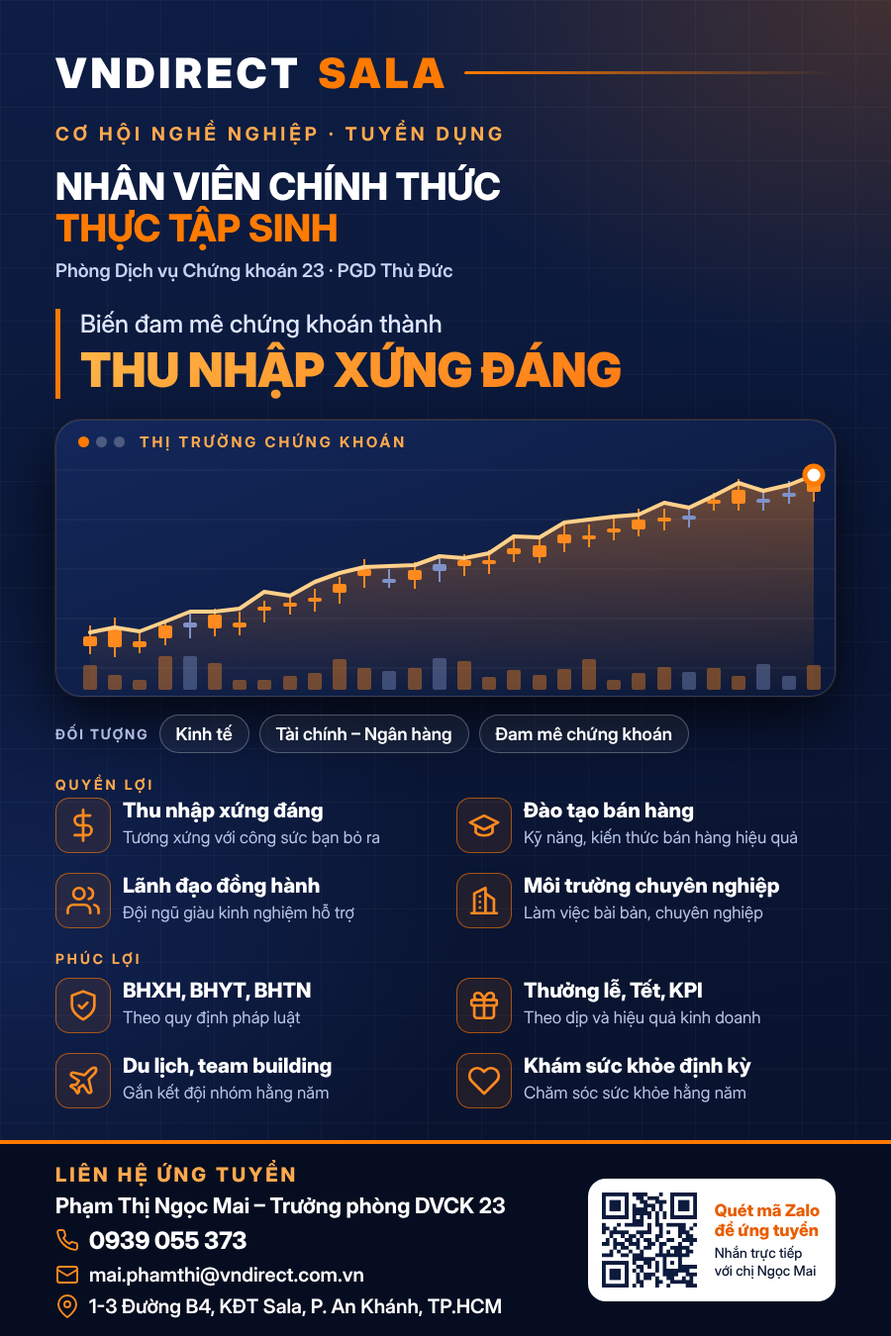
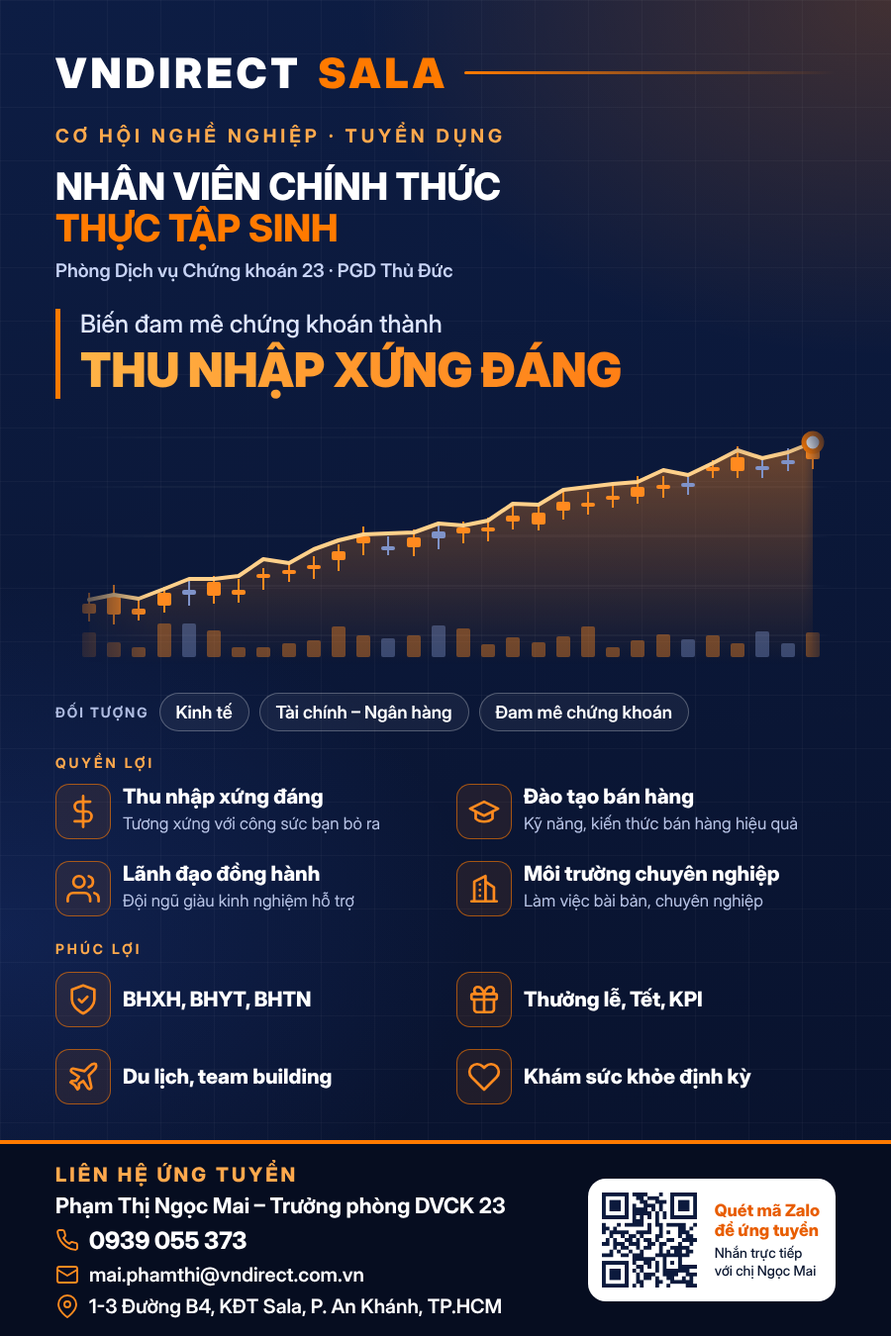
Airier layout: unboxed chart band, fewer text blocks, simplified welfare items
Claude-Session: https://claude.ai/code/session_018tv2baJyNPqKrqKUyJ6wTq

diff --git a/tuyen-dung-vndirect/banner-doc.html b/tuyen-dung-vndirect/banner-doc.html
@@ -7,27 +7,28 @@ background:radial-gradient(900px 600px at 100% 0%,#ff7a0038 0,#0000 60%),radial-
 .a{position:absolute;left:64px;right:64px}
 .logo{top:48px;font-size:46px;font-weight:900;letter-spacing:4px;display:flex;align-items:center;gap:16px}
 .logo span{color:var(--o)} .logo i{flex:1;height:3px;background:linear-gradient(90deg,var(--o),#0000);border-radius:2px}
-.ov{top:124px;font-size:19px;font-weight:700;letter-spacing:4px;color:var(--o2)}
+.ov{top:126px;font-size:19px;font-weight:700;letter-spacing:4px;color:var(--o2)}
 h1{top:168px;font-size:38px;line-height:1.1;font-weight:800;text-transform:uppercase}
 h1 span{color:var(--o)}
 .dept{top:262px;font-size:19px;font-weight:600;color:#c7d3f5}
 .q{top:312px;padding-left:20px;border-left:5px solid var(--o)}
 .q p{font-size:25px;font-weight:500;color:#dfe7ff}
 .q b{display:block;margin-top:2px;font-size:48px;font-weight:900;text-transform:uppercase;background:linear-gradient(90deg,#ffb347,#ff6a00);-webkit-background-clip:text;color:transparent;white-space:nowrap}
-.dash{top:424px;height:280px;border-radius:26px;background:linear-gradient(160deg,#13275a,#0b1838);border:1px solid #ffffff22;box-shadow:0 24px 60px #000b,0 0 0 1px #ff7a0033;overflow:hidden}
+.dash{top:392px;height:280px;-webkit-mask-image:linear-gradient(90deg,transparent 0,#000 12%,#000 96%,transparent 100%),linear-gradient(180deg,transparent 0,#000 25%);-webkit-mask-composite:source-in;mask-composite:intersect}
 .dash svg{position:absolute;left:0;top:0}
-.dh{position:absolute;left:22px;top:16px;display:flex;gap:7px;z-index:2}.dh i{width:11px;height:11px;border-radius:50%;background:#ffffff40}.dh i:first-child{background:var(--o)}
-.dt{position:absolute;left:84px;top:12px;font-size:15px;font-weight:700;letter-spacing:3px;color:var(--o2);z-index:2}
-.chips{top:722px;display:flex;gap:12px;align-items:center;font-size:20px;font-weight:600}
+.dh{display:none;position:absolute;left:22px;top:16px;display:flex;gap:7px;z-index:2}.dh i{width:11px;height:11px;border-radius:50%;background:#ffffff40}.dh i:first-child{background:var(--o)}
+.dt{display:none;position:absolute;left:84px;top:12px;font-size:15px;font-weight:700;letter-spacing:3px;color:var(--o2);z-index:2}
+.chips{top:700px;display:flex;gap:12px;align-items:center;font-size:20px;font-weight:600}
 .chips .t{letter-spacing:3px;font-weight:700;font-size:16px;color:#aebbe0}
 .chips em{font-style:normal;border:1px solid #ffffff44;border-radius:30px;padding:8px 20px;background:#ffffff0d}
-.ben{top:806px;display:grid;grid-template-columns:1fr 1fr;gap:20px 30px}
+.ben{top:792px;display:grid;grid-template-columns:1fr 1fr;gap:20px 30px}
 .b{display:flex;gap:16px;align-items:flex-start}
 .b .ic{flex:none;width:64px;height:64px;border-radius:16px;border:1.5px solid #ff7a0099;background:#ff7a0018;display:flex;align-items:center;justify-content:center}
 .b h4{font-size:23px;font-weight:800;line-height:1.2}
 .b p{font-size:19px;color:#b8c4e6;line-height:1.3;margin-top:4px}
 .sec{font-size:14px;font-weight:700;letter-spacing:3px;color:var(--o2)}
-.ben2{top:988px}
+.ben2{top:982px}
+.ben2 .b{align-items:center}.ben2 .b p{display:none}
 .ft{position:absolute;left:0;right:0;bottom:0;height:198px;background:#060d20;border-top:4px solid var(--o);padding:26px 64px;display:flex;justify-content:space-between;align-items:center}
 .ft h2{font-size:20px;font-weight:800;letter-spacing:3px;color:var(--o2)}
 .ft .nm{font-size:22px;font-weight:700;margin-top:6px}
@@ -37,7 +38,7 @@ h1 span{color:var(--o)}
 .qr img{width:118px;height:118px}
 .qr h5{font-size:19px;font-weight:800;color:#e85d00;line-height:1.2}
 .qr p{font-size:15px;font-weight:500;line-height:1.3;margin-top:3px}
-</style></head><body><div class="grid"></div>
+.dh,.dt{display:none!important}</style></head><body><div class="grid"></div>
 <div class="a logo">VNDIRECT <span>SALA</span><i></i></div>
 <div class="a ov">CƠ HỘI NGHỀ NGHIỆP · TUYỂN DỤNG</div>
 <h1 class="a">Nhân viên chính thức<br><span>Thực tập sinh</span></h1><div class="a dept">Phòng Dịch vụ Chứng khoán 23 · PGD Thủ Đức</div>
@@ -45,13 +46,13 @@ h1 span{color:var(--o)}
 <div class="a dash"><div class="dh"><i></i><i></i><i></i></div><div class="dt">THỊ TRƯỜNG CHỨNG KHOÁN</div>
 <svg viewBox="0 0 952 280" width="952" height="280"><defs><linearGradient id="a" x1="0" y1="0" x2="0" y2="1"><stop offset="0" stop-color="#ff8a1f" stop-opacity=".4"/><stop offset="1" stop-color="#ff8a1f" stop-opacity="0"/></linearGradient></defs><line x1="0" y1="50" x2="952" y2="50" stroke="#fff" stroke-opacity=".07"/><line x1="0" y1="100" x2="952" y2="100" stroke="#fff" stroke-opacity=".07"/><line x1="0" y1="150" x2="952" y2="150" stroke="#fff" stroke-opacity=".07"/><line x1="0" y1="200" x2="952" y2="200" stroke="#fff" stroke-opacity=".07"/><line x1="0" y1="250" x2="952" y2="250" stroke="#fff" stroke-opacity=".07"/><polygon points="34,214 59,210 84,215 110,205 135,197 160,198 185,195 210,179 236,185 261,171 286,163 311,159 336,158 362,158 387,150 412,153 437,149 462,133 488,135 513,121 538,119 563,116 588,116 614,105 639,110 664,99 689,88 714,96 740,91 765,83 790,76 815,62 840,67 866,61 891,52 916,43 916,280 34,280" fill="url(#a)"/><rect x="27" y="247" width="14" height="25" rx="2" fill="#ff8a1f" opacity=".4"/><rect x="52" y="257" width="14" height="15" rx="2" fill="#ff8a1f" opacity=".4"/><rect x="77" y="262" width="14" height="10" rx="2" fill="#ff8a1f" opacity=".4"/><rect x="103" y="238" width="14" height="34" rx="2" fill="#ff8a1f" opacity=".4"/><rect x="128" y="238" width="14" height="34" rx="2" fill="#7f93c9" opacity=".4"/><rect x="153" y="245" width="14" height="27" rx="2" fill="#ff8a1f" opacity=".4"/><rect x="178" y="262" width="14" height="10" rx="2" fill="#ff8a1f" opacity=".4"/><rect x="203" y="262" width="14" height="10" rx="2" fill="#ff8a1f" opacity=".4"/><rect x="229" y="258" width="14" height="14" rx="2" fill="#ff8a1f" opacity=".4"/><rect x="254" y="255" width="14" height="17" rx="2" fill="#ff8a1f" opacity=".4"/><rect x="279" y="241" width="14" height="31" rx="2" fill="#ff8a1f" opacity=".4"/><rect x="304" y="250" width="14" height="22" rx="2" fill="#ff8a1f" opacity=".4"/><rect x="329" y="253" width="14" height="19" rx="2" fill="#7f93c9" opacity=".4"/><rect x="355" y="250" width="14" height="22" rx="2" fill="#ff8a1f" opacity=".4"/><rect x="380" y="240" width="14" height="32" rx="2" fill="#7f93c9" opacity=".4"/><rect x="405" y="243" width="14" height="29" rx="2" fill="#ff8a1f" opacity=".4"/><rect x="430" y="259" width="14" height="13" rx="2" fill="#ff8a1f" opacity=".4"/><rect x="455" y="252" width="14" height="20" rx="2" fill="#ff8a1f" opacity=".4"/><rect x="481" y="257" width="14" height="15" rx="2" fill="#ff8a1f" opacity=".4"/><rect x="506" y="251" width="14" height="21" rx="2" fill="#ff8a1f" opacity=".4"/><rect x="531" y="241" width="14" height="31" rx="2" fill="#ff8a1f" opacity=".4"/><rect x="556" y="262" width="14" height="10" rx="2" fill="#ff8a1f" opacity=".4"/><rect x="581" y="255" width="14" height="17" rx="2" fill="#ff8a1f" opacity=".4"/><rect x="607" y="249" width="14" height="23" rx="2" fill="#ff8a1f" opacity=".4"/><rect x="632" y="254" width="14" height="18" rx="2" fill="#7f93c9" opacity=".4"/><rect x="657" y="250" width="14" height="22" rx="2" fill="#ff8a1f" opacity=".4"/><rect x="682" y="258" width="14" height="14" rx="2" fill="#ff8a1f" opacity=".4"/><rect x="707" y="246" width="14" height="26" rx="2" fill="#7f93c9" opacity=".4"/><rect x="733" y="258" width="14" height="14" rx="2" fill="#7f93c9" opacity=".4"/><rect x="758" y="247" width="14" height="25" rx="2" fill="#ff8a1f" opacity=".4"/><rect x="783" y="239" width="14" height="33" rx="2" fill="#ff8a1f" opacity=".4"/><rect x="808" y="254" width="14" height="18" rx="2" fill="#ff8a1f" opacity=".4"/><rect x="833" y="249" width="14" height="23" rx="2" fill="#ff8a1f" opacity=".4"/><rect x="859" y="258" width="14" height="14" rx="2" fill="#ff8a1f" opacity=".4"/><rect x="884" y="257" width="14" height="15" rx="2" fill="#7f93c9" opacity=".4"/><rect x="909" y="260" width="14" height="12" rx="2" fill="#ff8a1f" opacity=".4"/><line x1="34" y1="207" x2="34" y2="236" stroke="#ff8a1f" stroke-width="2"/><rect x="27" y="218" width="14" height="10" rx="2" fill="#ff8a1f"/><line x1="59" y1="200" x2="59" y2="240" stroke="#ff8a1f" stroke-width="2"/><rect x="52" y="212" width="14" height="18" rx="2" fill="#ff8a1f"/><line x1="84" y1="213" x2="84" y2="237" stroke="#ff8a1f" stroke-width="2"/><rect x="77" y="225" width="14" height="6" rx="2" fill="#ff8a1f"/><line x1="110" y1="203" x2="110" y2="229" stroke="#ff8a1f" stroke-width="2"/><rect x="103" y="209" width="14" height="13" rx="2" fill="#ff8a1f"/><line x1="135" y1="199" x2="135" y2="224" stroke="#7f93c9" stroke-width="2"/><rect x="128" y="208" width="14" height="5" rx="2" fill="#7f93c9"/><line x1="160" y1="195" x2="160" y2="223" stroke="#ff8a1f" stroke-width="2"/><rect x="153" y="201" width="14" height="14" rx="2" fill="#ff8a1f"/><line x1="185" y1="198" x2="185" y2="222" stroke="#ff8a1f" stroke-width="2"/><rect x="178" y="209" width="14" height="5" rx="2" fill="#ff8a1f"/><line x1="210" y1="188" x2="210" y2="210" stroke="#ff8a1f" stroke-width="2"/><rect x="203" y="194" width="14" height="4" rx="2" fill="#ff8a1f"/><line x1="236" y1="183" x2="236" y2="204" stroke="#ff8a1f" stroke-width="2"/><rect x="229" y="192" width="14" height="4" rx="2" fill="#ff8a1f"/><line x1="261" y1="178" x2="261" y2="201" stroke="#ff8a1f" stroke-width="2"/><rect x="254" y="187" width="14" height="4" rx="2" fill="#ff8a1f"/><line x1="286" y1="167" x2="286" y2="194" stroke="#ff8a1f" stroke-width="2"/><rect x="279" y="174" width="14" height="9" rx="2" fill="#ff8a1f"/><line x1="311" y1="151" x2="311" y2="180" stroke="#ff8a1f" stroke-width="2"/><rect x="304" y="161" width="14" height="7" rx="2" fill="#ff8a1f"/><line x1="336" y1="161" x2="336" y2="180" stroke="#7f93c9" stroke-width="2"/><rect x="329" y="171" width="14" height="4" rx="2" fill="#7f93c9"/><line x1="362" y1="155" x2="362" y2="182" stroke="#ff8a1f" stroke-width="2"/><rect x="355" y="163" width="14" height="10" rx="2" fill="#ff8a1f"/><line x1="387" y1="151" x2="387" y2="176" stroke="#7f93c9" stroke-width="2"/><rect x="380" y="158" width="14" height="7" rx="2" fill="#7f93c9"/><line x1="412" y1="149" x2="412" y2="171" stroke="#ff8a1f" stroke-width="2"/><rect x="405" y="155" width="14" height="6" rx="2" fill="#ff8a1f"/><line x1="437" y1="146" x2="437" y2="170" stroke="#ff8a1f" stroke-width="2"/><rect x="430" y="156" width="14" height="4" rx="2" fill="#ff8a1f"/><line x1="462" y1="134" x2="462" y2="159" stroke="#ff8a1f" stroke-width="2"/><rect x="455" y="145" width="14" height="6" rx="2" fill="#ff8a1f"/><line x1="488" y1="136" x2="488" y2="161" stroke="#ff8a1f" stroke-width="2"/><rect x="481" y="143" width="14" height="12" rx="2" fill="#ff8a1f"/><line x1="513" y1="121" x2="513" y2="151" stroke="#ff8a1f" stroke-width="2"/><rect x="506" y="133" width="14" height="9" rx="2" fill="#ff8a1f"/><line x1="538" y1="124" x2="538" y2="147" stroke="#ff8a1f" stroke-width="2"/><rect x="531" y="135" width="14" height="4" rx="2" fill="#ff8a1f"/><line x1="563" y1="117" x2="563" y2="140" stroke="#ff8a1f" stroke-width="2"/><rect x="556" y="128" width="14" height="4" rx="2" fill="#ff8a1f"/><line x1="588" y1="110" x2="588" y2="138" stroke="#ff8a1f" stroke-width="2"/><rect x="581" y="121" width="14" height="10" rx="2" fill="#ff8a1f"/><line x1="614" y1="111" x2="614" y2="133" stroke="#ff8a1f" stroke-width="2"/><rect x="607" y="120" width="14" height="4" rx="2" fill="#ff8a1f"/><line x1="639" y1="112" x2="639" y2="130" stroke="#7f93c9" stroke-width="2"/><rect x="632" y="118" width="14" height="4" rx="2" fill="#7f93c9"/><line x1="664" y1="96" x2="664" y2="114" stroke="#ff8a1f" stroke-width="2"/><rect x="657" y="103" width="14" height="4" rx="2" fill="#ff8a1f"/><line x1="689" y1="84" x2="689" y2="116" stroke="#ff8a1f" stroke-width="2"/><rect x="682" y="95" width="14" height="14" rx="2" fill="#ff8a1f"/><line x1="714" y1="97" x2="714" y2="116" stroke="#7f93c9" stroke-width="2"/><rect x="707" y="104" width="14" height="4" rx="2" fill="#7f93c9"/><line x1="740" y1="87" x2="740" y2="110" stroke="#7f93c9" stroke-width="2"/><rect x="733" y="99" width="14" height="4" rx="2" fill="#7f93c9"/><line x1="765" y1="78" x2="765" y2="110" stroke="#ff8a1f" stroke-width="2"/><rect x="758" y="87" width="14" height="13" rx="2" fill="#ff8a1f"/><line x1="790" y1="78" x2="790" y2="98" stroke="#ff8a1f" stroke-width="2"/><rect x="783" y="85" width="14" height="4" rx="2" fill="#ff8a1f"/><line x1="815" y1="64" x2="815" y2="82" stroke="#ff8a1f" stroke-width="2"/><rect x="808" y="75" width="14" height="4" rx="2" fill="#ff8a1f"/><line x1="840" y1="65" x2="840" y2="95" stroke="#ff8a1f" stroke-width="2"/><rect x="833" y="77" width="14" height="8" rx="2" fill="#ff8a1f"/><line x1="866" y1="54" x2="866" y2="91" stroke="#ff8a1f" stroke-width="2"/><rect x="859" y="66" width="14" height="13" rx="2" fill="#ff8a1f"/><line x1="891" y1="53" x2="891" y2="72" stroke="#7f93c9" stroke-width="2"/><rect x="884" y="62" width="14" height="4" rx="2" fill="#7f93c9"/><line x1="916" y1="34" x2="916" y2="68" stroke="#ff8a1f" stroke-width="2"/><rect x="909" y="46" width="14" height="15" rx="2" fill="#ff8a1f"/><polyline points="34,214 59,210 84,215 110,205 135,197 160,198 185,195 210,179 236,185 261,171 286,163 311,159 336,158 362,158 387,150 412,153 437,149 462,133 488,135 513,121 538,119 563,116 588,116 614,105 639,110 664,99 689,88 714,96 740,91 765,83 790,76 815,62 840,67 866,61 891,52 916,43" fill="none" stroke="#ffd08a" stroke-width="4" stroke-linecap="round" stroke-linejoin="round"/><circle cx="916" cy="43" r="9" fill="#fff" stroke="#ff7a00" stroke-width="5"/></svg></div>
 <div class="a chips"><span class="t">ĐỐI TƯỢNG</span><em>Kinh tế</em><em>Tài chính – Ngân hàng</em><em>Đam mê chứng khoán</em></div>
-<div class="a sec" style="top:784px">QUYỀN LỢI</div>
+<div class="a sec" style="top:762px">QUYỀN LỢI</div>
 <div class="a ben">
 <div class="b"><div class="ic"><svg viewBox="0 0 24 24" width="34" height="34" fill="none" stroke="#ff8a1f" stroke-width="1.9" stroke-linecap="round" stroke-linejoin="round"><path d="M12 1v22"/><path d="M17 5H9.5a3.5 3.5 0 0 0 0 7h5a3.5 3.5 0 0 1 0 7H6"/></svg></div><div><h4>Thu nhập xứng đáng</h4><p>Tương xứng với công sức bạn bỏ ra</p></div></div>
 <div class="b"><div class="ic"><svg viewBox="0 0 24 24" width="34" height="34" fill="none" stroke="#ff8a1f" stroke-width="1.9" stroke-linecap="round" stroke-linejoin="round"><path d="M22 10 12 5 2 10l10 5 10-5z"/><path d="M6 12v5c3 3 9 3 12 0v-5"/></svg></div><div><h4>Đào tạo bán hàng</h4><p>Kỹ năng, kiến thức bán hàng hiệu quả</p></div></div>
 <div class="b"><div class="ic"><svg viewBox="0 0 24 24" width="34" height="34" fill="none" stroke="#ff8a1f" stroke-width="1.9" stroke-linecap="round" stroke-linejoin="round"><path d="M17 21v-2a4 4 0 0 0-4-4H5a4 4 0 0 0-4 4v2"/><circle cx="9" cy="7" r="4"/><path d="M23 21v-2a4 4 0 0 0-3-3.87"/><path d="M16 3.13a4 4 0 0 1 0 7.75"/></svg></div><div><h4>Lãnh đạo đồng hành</h4><p>Đội ngũ giàu kinh nghiệm hỗ trợ</p></div></div>
 <div class="b"><div class="ic"><svg viewBox="0 0 24 24" width="34" height="34" fill="none" stroke="#ff8a1f" stroke-width="1.9" stroke-linecap="round" stroke-linejoin="round"><path d="M3 21h18"/><path d="M5 21V7l8-4v18"/><path d="M19 21V11l-6-4"/><path d="M9 9v.01M9 13v.01M9 17v.01"/></svg></div><div><h4>Môi trường chuyên nghiệp</h4><p>Làm việc bài bản, chuyên nghiệp</p></div></div></div>
-<div class="a sec" style="top:960px">PHÚC LỢI</div>
+<div class="a sec" style="top:950px">PHÚC LỢI</div>
 <div class="a ben ben2"><div class="b"><div class="ic"><svg viewBox="0 0 24 24" width="34" height="34" fill="none" stroke="#ff8a1f" stroke-width="1.9" stroke-linecap="round" stroke-linejoin="round"><path d="M12 22s8-4 8-10V5l-8-3-8 3v7c0 6 8 10 8 10z"/><path d="m9 12 2 2 4-4"/></svg></div><div><h4>BHXH, BHYT, BHTN</h4><p>Theo quy định pháp luật</p></div></div><div class="b"><div class="ic"><svg viewBox="0 0 24 24" width="34" height="34" fill="none" stroke="#ff8a1f" stroke-width="1.9" stroke-linecap="round" stroke-linejoin="round"><rect x="3" y="8" width="18" height="4" rx="1"/><path d="M12 8v13"/><path d="M19 12v7a2 2 0 0 1-2 2H7a2 2 0 0 1-2-2v-7"/><path d="M7.5 8a2.5 2.5 0 0 1 0-5C11 3 12 8 12 8s1-5 4.5-5a2.5 2.5 0 0 1 0 5"/></svg></div><div><h4>Thưởng lễ, Tết, KPI</h4><p>Theo dịp và hiệu quả kinh doanh</p></div></div><div class="b"><div class="ic"><svg viewBox="0 0 24 24" width="34" height="34" fill="none" stroke="#ff8a1f" stroke-width="1.9" stroke-linecap="round" stroke-linejoin="round"><path d="M17.8 19.2 16 11l3.5-3.5C21 6 21.5 4 21 3c-1-.5-3 0-4.5 1.5L13 8 4.8 6.2c-.5-.1-.9.1-1.1.5l-.3.5c-.2.5-.1 1 .3 1.3L9 12l-2 3H4l-1 1 3 2 2 3 1-1v-3l3-2 3.5 5.3c.3.4.8.5 1.3.3l.5-.2c.4-.3.6-.7.5-1.2z"/></svg></div><div><h4>Du lịch, team building</h4><p>Gắn kết đội nhóm hằng năm</p></div></div><div class="b"><div class="ic"><svg viewBox="0 0 24 24" width="34" height="34" fill="none" stroke="#ff8a1f" stroke-width="1.9" stroke-linecap="round" stroke-linejoin="round"><path d="M20.84 4.61a5.5 5.5 0 0 0-7.78 0L12 5.67l-1.06-1.06a5.5 5.5 0 0 0-7.78 7.78l1.06 1.06L12 21.23l7.78-7.78 1.06-1.06a5.5 5.5 0 0 0 0-7.78z"/></svg></div><div><h4>Khám sức khỏe định kỳ</h4><p>Chăm sóc sức khỏe hằng năm</p></div></div></div>
 <div class="ft"><div><h2>LIÊN HỆ ỨNG TUYỂN</h2><div class="nm">Phạm Thị Ngọc Mai – Trưởng phòng DVCK 23</div>
 <div class="r"><svg viewBox="0 0 24 24" width="24" height="24" fill="none" stroke="#ff8a1f" stroke-width="1.9" stroke-linecap="round" stroke-linejoin="round"><path d="M22 16.92v3a2 2 0 0 1-2.18 2 19.79 19.79 0 0 1-8.63-3.07 19.5 19.5 0 0 1-6-6 19.79 19.79 0 0 1-3.07-8.67A2 2 0 0 1 4.11 2h3a2 2 0 0 1 2 1.72 12.84 12.84 0 0 0 .7 2.81 2 2 0 0 1-.45 2.11L8.09 9.91a16 16 0 0 0 6 6l1.27-1.27a2 2 0 0 1 2.11-.45 12.84 12.84 0 0 0 2.81.7A2 2 0 0 1 22 16.92z"/></svg><b>0939 055 373</b></div>

diff --git a/tuyen-dung-vndirect/banner-doc-900.html b/tuyen-dung-vndirect/banner-doc-900.html
@@ -7,27 +7,28 @@ background:radial-gradient(900px 600px at 100% 0%,#ff7a0038 0,#0000 60%),radial-
 .a{position:absolute;left:56px;right:56px}
 .logo{top:48px;font-size:42px;font-weight:900;letter-spacing:4px;display:flex;align-items:center;gap:16px}
 .logo span{color:var(--o)} .logo i{flex:1;height:3px;background:linear-gradient(90deg,var(--o),#0000);border-radius:2px}
-.ov{top:124px;font-size:19px;font-weight:700;letter-spacing:4px;color:var(--o2)}
+.ov{top:126px;font-size:19px;font-weight:700;letter-spacing:4px;color:var(--o2)}
 h1{top:168px;font-size:38px;line-height:1.1;font-weight:800;text-transform:uppercase}
 h1 span{color:var(--o)}
 .dept{top:262px;font-size:19px;font-weight:600;color:#c7d3f5}
 .q{top:312px;padding-left:20px;border-left:5px solid var(--o)}
 .q p{font-size:25px;font-weight:500;color:#dfe7ff}
 .q b{display:block;margin-top:2px;font-size:48px;font-weight:900;text-transform:uppercase;background:linear-gradient(90deg,#ffb347,#ff6a00);-webkit-background-clip:text;color:transparent;white-space:nowrap}
-.dash{top:424px;height:280px;border-radius:26px;background:linear-gradient(160deg,#13275a,#0b1838);border:1px solid #ffffff22;box-shadow:0 24px 60px #000b,0 0 0 1px #ff7a0033;overflow:hidden}
+.dash{top:392px;height:280px;-webkit-mask-image:linear-gradient(90deg,transparent 0,#000 12%,#000 96%,transparent 100%),linear-gradient(180deg,transparent 0,#000 25%);-webkit-mask-composite:source-in;mask-composite:intersect}
 .dash svg{position:absolute;left:0;top:0}
-.dh{position:absolute;left:22px;top:16px;display:flex;gap:7px;z-index:2}.dh i{width:11px;height:11px;border-radius:50%;background:#ffffff40}.dh i:first-child{background:var(--o)}
-.dt{position:absolute;left:84px;top:12px;font-size:15px;font-weight:700;letter-spacing:3px;color:var(--o2);z-index:2}
-.chips{top:722px;display:flex;gap:10px;align-items:center;font-size:18px;font-weight:600}
+.dh{display:none;position:absolute;left:22px;top:16px;display:flex;gap:7px;z-index:2}.dh i{width:11px;height:11px;border-radius:50%;background:#ffffff40}.dh i:first-child{background:var(--o)}
+.dt{display:none;position:absolute;left:84px;top:12px;font-size:15px;font-weight:700;letter-spacing:3px;color:var(--o2);z-index:2}
+.chips{top:700px;display:flex;gap:10px;align-items:center;font-size:18px;font-weight:600}
 .chips .t{letter-spacing:2px;font-weight:700;font-size:14px;color:#aebbe0}
 .chips em{font-style:normal;border:1px solid #ffffff44;border-radius:30px;padding:8px 16px;background:#ffffff0d}
-.ben{top:806px;display:grid;grid-template-columns:1fr 1fr;gap:20px 22px}
+.ben{top:792px;display:grid;grid-template-columns:1fr 1fr;gap:22px 22px}
 .b{display:flex;gap:12px;align-items:flex-start}
 .b .ic{flex:none;width:56px;height:56px;border-radius:14px;border:1.5px solid #ff7a0099;background:#ff7a0018;display:flex;align-items:center;justify-content:center}
 .b h4{font-size:21px;font-weight:800;line-height:1.2}
 .b p{font-size:17px;color:#b8c4e6;line-height:1.3;margin-top:4px}
 .sec{font-size:14px;font-weight:700;letter-spacing:3px;color:var(--o2)}
-.ben2{top:988px}
+.ben2{top:982px}
+.ben2 .b{align-items:center}.ben2 .b p{display:none}
 .ft{position:absolute;left:0;right:0;bottom:0;height:198px;background:#060d20;border-top:4px solid var(--o);padding:26px 56px;display:flex;justify-content:space-between;align-items:center}
 .ft h2{font-size:20px;font-weight:800;letter-spacing:3px;color:var(--o2)}
 .ft .nm{font-size:22px;font-weight:700;margin-top:6px}
@@ -37,7 +38,7 @@ h1 span{color:var(--o)}
 .qr img{width:104px;height:104px}
 .qr h5{font-size:17px;font-weight:800;color:#e85d00;line-height:1.2}
 .qr p{font-size:14px;font-weight:500;line-height:1.3;margin-top:3px}
-</style></head><body><div class="grid"></div>
+.dh,.dt{display:none!important}</style></head><body><div class="grid"></div>
 <div class="a logo">VNDIRECT <span>SALA</span><i></i></div>
 <div class="a ov">CƠ HỘI NGHỀ NGHIỆP · TUYỂN DỤNG</div>
 <h1 class="a">Nhân viên chính thức<br><span>Thực tập sinh</span></h1><div class="a dept">Phòng Dịch vụ Chứng khoán 23 · PGD Thủ Đức</div>
@@ -45,13 +46,13 @@ h1 span{color:var(--o)}
 <div class="a dash"><div class="dh"><i></i><i></i><i></i></div><div class="dt">THỊ TRƯỜNG CHỨNG KHOÁN</div>
 <svg viewBox="0 0 788 280" width="788" height="280"><defs><linearGradient id="a" x1="0" y1="0" x2="0" y2="1"><stop offset="0" stop-color="#ff8a1f" stop-opacity=".4"/><stop offset="1" stop-color="#ff8a1f" stop-opacity="0"/></linearGradient></defs><line x1="0" y1="50" x2="788" y2="50" stroke="#fff" stroke-opacity=".07"/><line x1="0" y1="100" x2="788" y2="100" stroke="#fff" stroke-opacity=".07"/><line x1="0" y1="150" x2="788" y2="150" stroke="#fff" stroke-opacity=".07"/><line x1="0" y1="200" x2="788" y2="200" stroke="#fff" stroke-opacity=".07"/><line x1="0" y1="250" x2="788" y2="250" stroke="#fff" stroke-opacity=".07"/><polygon points="34,214 59,209 84,213 110,203 135,193 160,193 185,190 210,173 236,177 261,163 286,154 311,148 336,147 362,146 387,137 412,139 437,134 462,117 488,118 513,103 538,100 563,97 588,95 614,83 639,88 664,76 689,63 714,71 740,65 765,55 765,280 34,280" fill="url(#a)"/><rect x="27" y="247" width="14" height="25" rx="2" fill="#ff8a1f" opacity=".4"/><rect x="52" y="257" width="14" height="15" rx="2" fill="#ff8a1f" opacity=".4"/><rect x="77" y="262" width="14" height="10" rx="2" fill="#ff8a1f" opacity=".4"/><rect x="103" y="238" width="14" height="34" rx="2" fill="#ff8a1f" opacity=".4"/><rect x="128" y="238" width="14" height="34" rx="2" fill="#7f93c9" opacity=".4"/><rect x="153" y="245" width="14" height="27" rx="2" fill="#ff8a1f" opacity=".4"/><rect x="178" y="262" width="14" height="10" rx="2" fill="#ff8a1f" opacity=".4"/><rect x="203" y="262" width="14" height="10" rx="2" fill="#ff8a1f" opacity=".4"/><rect x="229" y="258" width="14" height="14" rx="2" fill="#ff8a1f" opacity=".4"/><rect x="254" y="255" width="14" height="17" rx="2" fill="#ff8a1f" opacity=".4"/><rect x="279" y="241" width="14" height="31" rx="2" fill="#ff8a1f" opacity=".4"/><rect x="304" y="250" width="14" height="22" rx="2" fill="#ff8a1f" opacity=".4"/><rect x="329" y="253" width="14" height="19" rx="2" fill="#7f93c9" opacity=".4"/><rect x="355" y="250" width="14" height="22" rx="2" fill="#ff8a1f" opacity=".4"/><rect x="380" y="240" width="14" height="32" rx="2" fill="#7f93c9" opacity=".4"/><rect x="405" y="243" width="14" height="29" rx="2" fill="#ff8a1f" opacity=".4"/><rect x="430" y="259" width="14" height="13" rx="2" fill="#ff8a1f" opacity=".4"/><rect x="455" y="252" width="14" height="20" rx="2" fill="#ff8a1f" opacity=".4"/><rect x="481" y="257" width="14" height="15" rx="2" fill="#ff8a1f" opacity=".4"/><rect x="506" y="251" width="14" height="21" rx="2" fill="#ff8a1f" opacity=".4"/><rect x="531" y="241" width="14" height="31" rx="2" fill="#ff8a1f" opacity=".4"/><rect x="556" y="262" width="14" height="10" rx="2" fill="#ff8a1f" opacity=".4"/><rect x="581" y="255" width="14" height="17" rx="2" fill="#ff8a1f" opacity=".4"/><rect x="607" y="249" width="14" height="23" rx="2" fill="#ff8a1f" opacity=".4"/><rect x="632" y="254" width="14" height="18" rx="2" fill="#7f93c9" opacity=".4"/><rect x="657" y="250" width="14" height="22" rx="2" fill="#ff8a1f" opacity=".4"/><rect x="682" y="258" width="14" height="14" rx="2" fill="#ff8a1f" opacity=".4"/><rect x="707" y="246" width="14" height="26" rx="2" fill="#7f93c9" opacity=".4"/><rect x="733" y="258" width="14" height="14" rx="2" fill="#7f93c9" opacity=".4"/><rect x="758" y="247" width="14" height="25" rx="2" fill="#ff8a1f" opacity=".4"/><line x1="34" y1="207" x2="34" y2="236" stroke="#ff8a1f" stroke-width="2"/><rect x="27" y="218" width="14" height="10" rx="2" fill="#ff8a1f"/><line x1="59" y1="199" x2="59" y2="239" stroke="#ff8a1f" stroke-width="2"/><rect x="52" y="211" width="14" height="18" rx="2" fill="#ff8a1f"/><line x1="84" y1="211" x2="84" y2="235" stroke="#ff8a1f" stroke-width="2"/><rect x="77" y="223" width="14" height="6" rx="2" fill="#ff8a1f"/><line x1="110" y1="201" x2="110" y2="227" stroke="#ff8a1f" stroke-width="2"/><rect x="103" y="207" width="14" height="13" rx="2" fill="#ff8a1f"/><line x1="135" y1="195" x2="135" y2="220" stroke="#7f93c9" stroke-width="2"/><rect x="128" y="204" width="14" height="5" rx="2" fill="#7f93c9"/><line x1="160" y1="190" x2="160" y2="218" stroke="#ff8a1f" stroke-width="2"/><rect x="153" y="196" width="14" height="14" rx="2" fill="#ff8a1f"/><line x1="185" y1="193" x2="185" y2="217" stroke="#ff8a1f" stroke-width="2"/><rect x="178" y="204" width="14" height="5" rx="2" fill="#ff8a1f"/><line x1="210" y1="182" x2="210" y2="204" stroke="#ff8a1f" stroke-width="2"/><rect x="203" y="188" width="14" height="4" rx="2" fill="#ff8a1f"/><line x1="236" y1="175" x2="236" y2="196" stroke="#ff8a1f" stroke-width="2"/><rect x="229" y="184" width="14" height="4" rx="2" fill="#ff8a1f"/><line x1="261" y1="170" x2="261" y2="193" stroke="#ff8a1f" stroke-width="2"/><rect x="254" y="179" width="14" height="4" rx="2" fill="#ff8a1f"/><line x1="286" y1="158" x2="286" y2="185" stroke="#ff8a1f" stroke-width="2"/><rect x="279" y="165" width="14" height="9" rx="2" fill="#ff8a1f"/><line x1="311" y1="140" x2="311" y2="169" stroke="#ff8a1f" stroke-width="2"/><rect x="304" y="150" width="14" height="7" rx="2" fill="#ff8a1f"/><line x1="336" y1="150" x2="336" y2="169" stroke="#7f93c9" stroke-width="2"/><rect x="329" y="160" width="14" height="4" rx="2" fill="#7f93c9"/><line x1="362" y1="143" x2="362" y2="170" stroke="#ff8a1f" stroke-width="2"/><rect x="355" y="151" width="14" height="10" rx="2" fill="#ff8a1f"/><line x1="387" y1="138" x2="387" y2="163" stroke="#7f93c9" stroke-width="2"/><rect x="380" y="145" width="14" height="7" rx="2" fill="#7f93c9"/><line x1="412" y1="135" x2="412" y2="157" stroke="#ff8a1f" stroke-width="2"/><rect x="405" y="141" width="14" height="6" rx="2" fill="#ff8a1f"/><line x1="437" y1="131" x2="437" y2="155" stroke="#ff8a1f" stroke-width="2"/><rect x="430" y="141" width="14" height="4" rx="2" fill="#ff8a1f"/><line x1="462" y1="118" x2="462" y2="143" stroke="#ff8a1f" stroke-width="2"/><rect x="455" y="129" width="14" height="6" rx="2" fill="#ff8a1f"/><line x1="488" y1="119" x2="488" y2="144" stroke="#ff8a1f" stroke-width="2"/><rect x="481" y="126" width="14" height="12" rx="2" fill="#ff8a1f"/><line x1="513" y1="103" x2="513" y2="133" stroke="#ff8a1f" stroke-width="2"/><rect x="506" y="115" width="14" height="9" rx="2" fill="#ff8a1f"/><line x1="538" y1="105" x2="538" y2="128" stroke="#ff8a1f" stroke-width="2"/><rect x="531" y="116" width="14" height="4" rx="2" fill="#ff8a1f"/><line x1="563" y1="98" x2="563" y2="121" stroke="#ff8a1f" stroke-width="2"/><rect x="556" y="109" width="14" height="4" rx="2" fill="#ff8a1f"/><line x1="588" y1="89" x2="588" y2="117" stroke="#ff8a1f" stroke-width="2"/><rect x="581" y="100" width="14" height="10" rx="2" fill="#ff8a1f"/><line x1="614" y1="89" x2="614" y2="111" stroke="#ff8a1f" stroke-width="2"/><rect x="607" y="98" width="14" height="4" rx="2" fill="#ff8a1f"/><line x1="639" y1="90" x2="639" y2="108" stroke="#7f93c9" stroke-width="2"/><rect x="632" y="96" width="14" height="4" rx="2" fill="#7f93c9"/><line x1="664" y1="73" x2="664" y2="91" stroke="#ff8a1f" stroke-width="2"/><rect x="657" y="80" width="14" height="4" rx="2" fill="#ff8a1f"/><line x1="689" y1="59" x2="689" y2="91" stroke="#ff8a1f" stroke-width="2"/><rect x="682" y="70" width="14" height="14" rx="2" fill="#ff8a1f"/><line x1="714" y1="72" x2="714" y2="91" stroke="#7f93c9" stroke-width="2"/><rect x="707" y="79" width="14" height="4" rx="2" fill="#7f93c9"/><line x1="740" y1="61" x2="740" y2="84" stroke="#7f93c9" stroke-width="2"/><rect x="733" y="73" width="14" height="4" rx="2" fill="#7f93c9"/><line x1="765" y1="50" x2="765" y2="82" stroke="#ff8a1f" stroke-width="2"/><rect x="758" y="59" width="14" height="13" rx="2" fill="#ff8a1f"/><polyline points="34,214 59,209 84,213 110,203 135,193 160,193 185,190 210,173 236,177 261,163 286,154 311,148 336,147 362,146 387,137 412,139 437,134 462,117 488,118 513,103 538,100 563,97 588,95 614,83 639,88 664,76 689,63 714,71 740,65 765,55" fill="none" stroke="#ffd08a" stroke-width="4" stroke-linecap="round" stroke-linejoin="round"/><circle cx="765" cy="55" r="9" fill="#fff" stroke="#ff7a00" stroke-width="5"/></svg></div>
 <div class="a chips"><span class="t">ĐỐI TƯỢNG</span><em>Kinh tế</em><em>Tài chính – Ngân hàng</em><em>Đam mê chứng khoán</em></div>
-<div class="a sec" style="top:784px">QUYỀN LỢI</div>
+<div class="a sec" style="top:762px">QUYỀN LỢI</div>
 <div class="a ben">
 <div class="b"><div class="ic"><svg viewBox="0 0 24 24" width="34" height="34" fill="none" stroke="#ff8a1f" stroke-width="1.9" stroke-linecap="round" stroke-linejoin="round"><path d="M12 1v22"/><path d="M17 5H9.5a3.5 3.5 0 0 0 0 7h5a3.5 3.5 0 0 1 0 7H6"/></svg></div><div><h4>Thu nhập xứng đáng</h4><p>Tương xứng với công sức bạn bỏ ra</p></div></div>
 <div class="b"><div class="ic"><svg viewBox="0 0 24 24" width="34" height="34" fill="none" stroke="#ff8a1f" stroke-width="1.9" stroke-linecap="round" stroke-linejoin="round"><path d="M22 10 12 5 2 10l10 5 10-5z"/><path d="M6 12v5c3 3 9 3 12 0v-5"/></svg></div><div><h4>Đào tạo bán hàng</h4><p>Kỹ năng, kiến thức bán hàng hiệu quả</p></div></div>
 <div class="b"><div class="ic"><svg viewBox="0 0 24 24" width="34" height="34" fill="none" stroke="#ff8a1f" stroke-width="1.9" stroke-linecap="round" stroke-linejoin="round"><path d="M17 21v-2a4 4 0 0 0-4-4H5a4 4 0 0 0-4 4v2"/><circle cx="9" cy="7" r="4"/><path d="M23 21v-2a4 4 0 0 0-3-3.87"/><path d="M16 3.13a4 4 0 0 1 0 7.75"/></svg></div><div><h4>Lãnh đạo đồng hành</h4><p>Đội ngũ giàu kinh nghiệm hỗ trợ</p></div></div>
 <div class="b"><div class="ic"><svg viewBox="0 0 24 24" width="34" height="34" fill="none" stroke="#ff8a1f" stroke-width="1.9" stroke-linecap="round" stroke-linejoin="round"><path d="M3 21h18"/><path d="M5 21V7l8-4v18"/><path d="M19 21V11l-6-4"/><path d="M9 9v.01M9 13v.01M9 17v.01"/></svg></div><div><h4>Môi trường chuyên nghiệp</h4><p>Làm việc bài bản, chuyên nghiệp</p></div></div></div>
-<div class="a sec" style="top:960px">PHÚC LỢI</div>
+<div class="a sec" style="top:950px">PHÚC LỢI</div>
 <div class="a ben ben2"><div class="b"><div class="ic"><svg viewBox="0 0 24 24" width="34" height="34" fill="none" stroke="#ff8a1f" stroke-width="1.9" stroke-linecap="round" stroke-linejoin="round"><path d="M12 22s8-4 8-10V5l-8-3-8 3v7c0 6 8 10 8 10z"/><path d="m9 12 2 2 4-4"/></svg></div><div><h4>BHXH, BHYT, BHTN</h4><p>Theo quy định pháp luật</p></div></div><div class="b"><div class="ic"><svg viewBox="0 0 24 24" width="34" height="34" fill="none" stroke="#ff8a1f" stroke-width="1.9" stroke-linecap="round" stroke-linejoin="round"><rect x="3" y="8" width="18" height="4" rx="1"/><path d="M12 8v13"/><path d="M19 12v7a2 2 0 0 1-2 2H7a2 2 0 0 1-2-2v-7"/><path d="M7.5 8a2.5 2.5 0 0 1 0-5C11 3 12 8 12 8s1-5 4.5-5a2.5 2.5 0 0 1 0 5"/></svg></div><div><h4>Thưởng lễ, Tết, KPI</h4><p>Theo dịp và hiệu quả kinh doanh</p></div></div><div class="b"><div class="ic"><svg viewBox="0 0 24 24" width="34" height="34" fill="none" stroke="#ff8a1f" stroke-width="1.9" stroke-linecap="round" stroke-linejoin="round"><path d="M17.8 19.2 16 11l3.5-3.5C21 6 21.5 4 21 3c-1-.5-3 0-4.5 1.5L13 8 4.8 6.2c-.5-.1-.9.1-1.1.5l-.3.5c-.2.5-.1 1 .3 1.3L9 12l-2 3H4l-1 1 3 2 2 3 1-1v-3l3-2 3.5 5.3c.3.4.8.5 1.3.3l.5-.2c.4-.3.6-.7.5-1.2z"/></svg></div><div><h4>Du lịch, team building</h4><p>Gắn kết đội nhóm hằng năm</p></div></div><div class="b"><div class="ic"><svg viewBox="0 0 24 24" width="34" height="34" fill="none" stroke="#ff8a1f" stroke-width="1.9" stroke-linecap="round" stroke-linejoin="round"><path d="M20.84 4.61a5.5 5.5 0 0 0-7.78 0L12 5.67l-1.06-1.06a5.5 5.5 0 0 0-7.78 7.78l1.06 1.06L12 21.23l7.78-7.78 1.06-1.06a5.5 5.5 0 0 0 0-7.78z"/></svg></div><div><h4>Khám sức khỏe định kỳ</h4><p>Chăm sóc sức khỏe hằng năm</p></div></div></div>
 <div class="ft"><div><h2>LIÊN HỆ ỨNG TUYỂN</h2><div class="nm">Phạm Thị Ngọc Mai – Trưởng phòng DVCK 23</div>
 <div class="r"><svg viewBox="0 0 24 24" width="24" height="24" fill="none" stroke="#ff8a1f" stroke-width="1.9" stroke-linecap="round" stroke-linejoin="round"><path d="M22 16.92v3a2 2 0 0 1-2.18 2 19.79 19.79 0 0 1-8.63-3.07 19.5 19.5 0 0 1-6-6 19.79 19.79 0 0 1-3.07-8.67A2 2 0 0 1 4.11 2h3a2 2 0 0 1 2 1.72 12.84 12.84 0 0 0 .7 2.81 2 2 0 0 1-.45 2.11L8.09 9.91a16 16 0 0 0 6 6l1.27-1.27a2 2 0 0 1 2.11-.45 12.84 12.84 0 0 0 2.81.7A2 2 0 0 1 22 16.92z"/></svg><b>0939 055 373</b></div>
